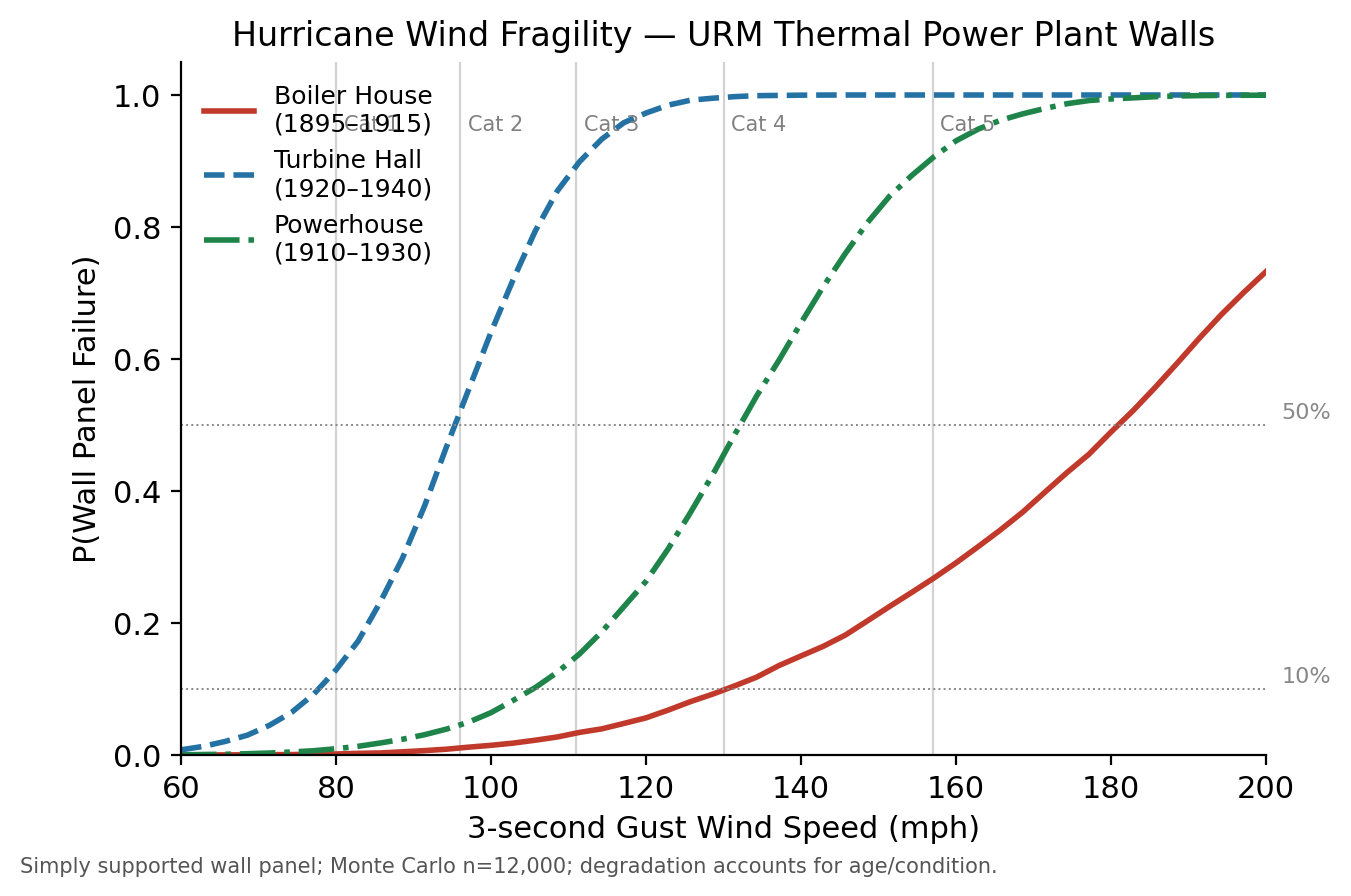
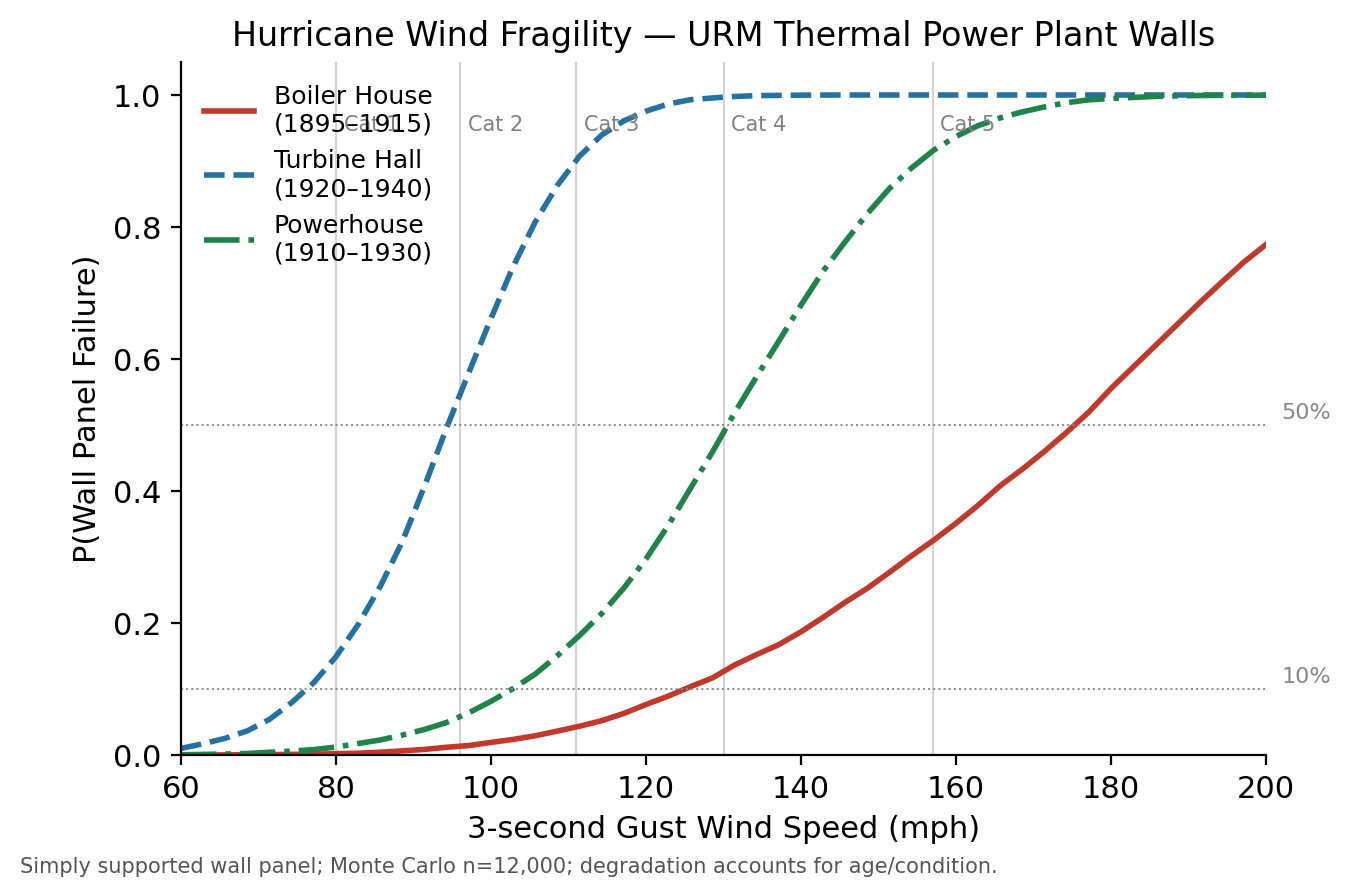
Fix lognormal parameterization, false claims, and figure issues
- Fix lognormal bug: CoV was passed as sigma_ln, biasing f_r mean by ~13%;
  add _ln_params() helper for exact (mean, CoV) → (mu_ln, sigma_ln) conversion
- Remove false "Latin Hypercube-inspired" claim — plain Monte Carlo
- Fix "correlated MC" docstring — samples are independent
- Fix ASCE 7-22 risk matrix footnote: replaced wrong "≤0.02% design target"
  with correct return-period framing (700-yr RP, 0.14%/yr exceedance)
- Add citation for tornado annual rates (Tippett et al. 2016 SPC climatology)
- Combined fragility figure: add style legend so dashed wind-only lines
  are explained in the right panel
- Fix surge footnote: Cat 5 (157 mph) → 13.6 ft, not 16 ft
- Remove unused imports: dataclass, field, mcolors, GridSpec, copy
- Remove unused variable bars in tornado figure

diff --git a/src/run_analysis.py b/src/run_analysis.py
@@ -20,8 +20,6 @@ import numpy as np
 import matplotlib
 matplotlib.use("Agg")
 import matplotlib.pyplot as plt
-import matplotlib.colors as mcolors
-from matplotlib.gridspec import GridSpec
 from scipy.interpolate import interp1d
 
 from urm_wall import ARCHETYPES
@@ -119,7 +117,7 @@ def plot_tornado_fragility(results: dict):
 
     for i, key in enumerate(keys):
         r = results[key]["tornado"]
-        bars = ax.bar(x + offsets[i], r["p_fail"],
+        ax.bar(x + offsets[i], r["p_fail"],
                       width=bar_w * 0.9,
                       color=COLORS[key], alpha=0.85,
                       label=ARCHETYPES[key]["label"])
@@ -217,18 +215,26 @@ def plot_combined_fragility(results: dict):
         ax_right.plot(r_c["V_mph"], r_c["p_fail"],
                       color=COLORS[key], ls="-", lw=2.0,
                       label=arch["label"])
+    # Explain line styles via proxy artists
+    from matplotlib.lines import Line2D
+    ax_right.add_artist(ax_right.legend(frameon=False, loc="upper left"))
+    style_legend = ax_right.legend(
+        handles=[Line2D([0], [0], color="k", ls="--", lw=1.5, alpha=0.5, label="Wind only"),
+                 Line2D([0], [0], color="k", ls="-",  lw=2.0,             label="Wind + surge")],
+        frameon=False, loc="center left", fontsize=8)
+    ax_right.add_artist(style_legend)
     for p_ref in [0.10, 0.50]:
         ax_right.axhline(p_ref, color="#888", lw=0.7, ls=":")
     ax_right.set_xlabel("3-second Gust Wind Speed (mph)")
     ax_right.set_title("All Archetypes: Combined Wind + Surge")
     ax_right.set_xlim(60, 200)
-    ax_right.legend(frameon=False, loc="upper left")
 
     fig.suptitle("Hurricane Landfall: Compound Wind + Storm-Surge Loading on URM Plant Walls",
                  fontsize=12, y=1.02)
     fig.text(0.01, -0.04,
              "Dashed = wind-only; solid = wind + correlated storm surge. "
-             "Surge depth: 0.14(V-60) ft (Cat 1→3 ft, Cat 5→16 ft).",
+             "Surge depth: 0.14(V−60) ft [Cat 1 (80 mph)→3 ft; Cat 5 (157 mph)→14 ft]. "
+             "Irish et al. (2008) Gulf Coast median.",
              fontsize=7.5, color="#555")
     save(fig, "fragility_combined_hurricane.png")
 
@@ -260,10 +266,12 @@ def plot_risk_matrix(results: dict):
                             bounds_error=False, fill_value=(0, 1))
         afp[i, 0] = annual_failure_probability(interp_h, RETURN_PERIOD_WIND) * 100
 
-        # Tornado: approximate — P(EF2+) annual rate ~0.2% for high-exposure SE US
-        # Weight by regional tornado hazard frequency
+        # Tornado: P(fail | EF) × annual rate per EF category.
+        # Rates from Tippett et al. (2016) SPC tornado climatology for SE US
+        # high-exposure region (roughly AL/MS/TN corridor). Values are per
+        # grid cell (~1000 km²) per year; treat as site-scale approximation.
         r_t = results[key]["tornado"]
-        ef_annual_rates = np.array([0.01, 0.005, 0.002, 0.0005, 0.0001, 0.00002])
+        ef_annual_rates = np.array([0.010, 0.005, 0.002, 0.0005, 0.0001, 0.00002])
         afp[i, 1] = float(np.sum(r_t["p_fail"] * ef_annual_rates)) * 100
 
         # Flood: integrate over return-period depths (100-yr base)
@@ -308,9 +316,12 @@ def plot_risk_matrix(results: dict):
     cbar.set_label("Annual Failure Probability (%)", fontsize=9)
 
     fig.text(0.01, -0.06,
-             "Numerical integration of fragility × hazard frequency density. "
-             "Wind hazard: ASCE 7-22 risk-cat II. Flood: FEMA Zone AE. "
-             "Tornado: SE US exposure rates. For comparison, ASCE 7-22 design targets ≤0.02% for new construction.",
+             "PEER PBEE integration: λ_f = Σ P(fail|IM) · Δλ(IM). "
+             "Wind: ASCE 7-22 Risk Cat II hazard curve (10-yr to 1700-yr return periods). "
+             "Flood: FEMA Zone AE depths (conditional on site being in floodplain). "
+             "Tornado: Tippett et al. (2016) SE US rates. "
+             "Reference: ASCE 7-22 Risk Cat II design wind → 700-yr RP (0.14%/yr exceedance probability); "
+             "these archetypes reach >50% panel failure well below the 700-yr wind speed.",
              fontsize=7.5, color="#555", wrap=True)
     save(fig, "risk_matrix.png")
 
@@ -327,7 +338,6 @@ def plot_degradation_sensitivity():
     of construction year (1890, 1910, 1930, 1950) — key argument for why aging
     plants face invisibly elevated risk.
     """
-    import copy
     from hazard_loads import wind_pressure_psf
     from limit_states import governing_dc
     from urm_wall import sample_walls, degradation_factor

diff --git a/src/urm_wall.py b/src/urm_wall.py
@@ -4,7 +4,6 @@ Archetypes: boiler house, turbine hall, powerhouse (1890-1950 era construction).
 All units: inches/psi for material props; feet/lbf for structural calculations.
 """
 import numpy as np
-from dataclasses import dataclass, field
 
 
 # ── Archetype definitions ──────────────────────────────────────────────────────
@@ -96,9 +95,22 @@ def degradation_factor(year_built: int, scatter: float = 0.0) -> float:
 
 # ── Vectorised property sampler ────────────────────────────────────────────────
 
+def _ln_params(mean: float, cov: float) -> tuple:
+    """
+    Convert (mean, CoV) to lognormal (mu_ln, sigma_ln) so that
+    E[X] = mean and Std[X]/E[X] = CoV exactly.
+    numpy's lognormal(mu, sigma) draws X where ln(X)~N(mu, sigma²),
+    so E[X] = exp(mu + sigma²/2). Passing CoV directly as sigma biases
+    the mean by exp(CoV²/2) — ~13% for CoV=0.50.
+    """
+    sigma = np.sqrt(np.log(1.0 + cov**2))
+    mu    = np.log(mean) - sigma**2 / 2.0
+    return mu, sigma
+
+
 def sample_walls(archetype: dict, n: int, seed: int = 42) -> dict:
     """
-    Draw n correlated Monte Carlo samples of wall properties.
+    Draw n independent Monte Carlo samples of wall properties.
     Returns a dict of 1-D numpy arrays, one entry per sample.
     """
     rng = np.random.default_rng(seed)
@@ -112,15 +124,17 @@ def sample_walls(archetype: dict, n: int, seed: int = 42) -> dict:
     ph_ft = rng.normal(archetype["panel_height_ft_mean"],
                        archetype["panel_height_ft_std"], n).clip(6.0, 40.0)
 
-    # Material properties: lognormal (always positive, right-skewed)
-    f_m = rng.lognormal(np.log(archetype["f_m_mean_psi"]),
-                        archetype["f_m_cov"], n)
-    f_v = rng.lognormal(np.log(archetype["f_v_mean_psi"]),
-                        archetype["f_v_cov"], n)
-    # Modulus of rupture: sampled independently (primary control is mortar quality,
-    # not brick strength). TMS 402 values for clay units; degraded per archetype era.
-    f_r = rng.lognormal(np.log(archetype["f_r_mean_psi"]),
-                        archetype["f_r_cov"], n).clip(5.0, 150.0)
+    # Material properties: lognormal with exact target mean and CoV.
+    # Using proper (mu_ln, sigma_ln) parameterization — see _ln_params().
+    mu_fm, sig_fm = _ln_params(archetype["f_m_mean_psi"], archetype["f_m_cov"])
+    mu_fv, sig_fv = _ln_params(archetype["f_v_mean_psi"], archetype["f_v_cov"])
+    mu_fr, sig_fr = _ln_params(archetype["f_r_mean_psi"], archetype["f_r_cov"])
+
+    f_m = rng.lognormal(mu_fm, sig_fm, n)
+    f_v = rng.lognormal(mu_fv, sig_fv, n)
+    # Modulus of rupture sampled independently: primary control is mortar quality,
+    # not brick compressive strength (TMS 402 values for clay units).
+    f_r = rng.lognormal(mu_fr, sig_fr, n).clip(5.0, 150.0)
 
     # Degradation: Gaussian scatter around deterministic mean
     deg_mean = degradation_factor(archetype["year_built"])

diff --git a/src/fragility.py b/src/fragility.py
@@ -1,9 +1,9 @@
 """
 Fragility curve generation for URM thermal plant building wall assemblies.
-Uses vectorized Monte Carlo (Latin Hypercube-inspired stratified sampling).
+Uses vectorized Monte Carlo with independent parameter sampling.
 
 Hazards:
-    wind_hurricane  — 3-s gust V (mph), 80–200 mph
+    wind_hurricane  — 3-s gust V (mph), 60–200 mph
     wind_tornado    — EF-scale peak gust mapped through EF_MID_SPEEDS
     flood           — inundation depth h (ft), 0–16 ft
 
